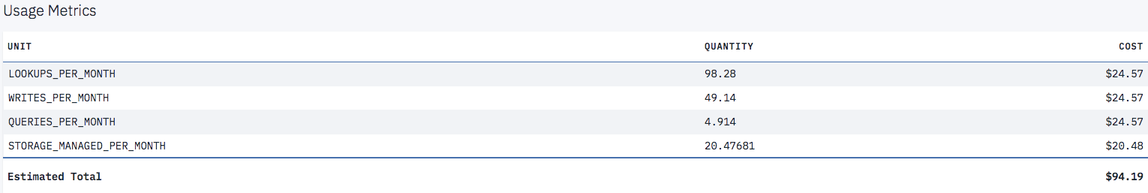
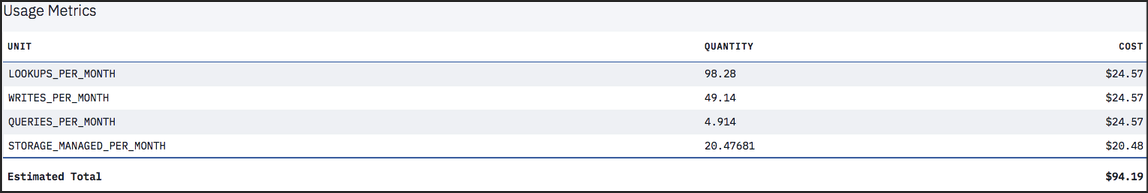
Updates from review, tweaked images, and acrolinx for fb104720.

Changed region(s): [[0.0, 0.9637, 1.0, 1.0], [0.0, 0.0, 1.0, 0.0311]]

diff --git a/offerings/bluemix.md b/offerings/bluemix.md
@@ -2,7 +2,7 @@
 
 copyright:
   years: 2015, 2018
-lastupdated: "2018-04-18"
+lastupdated: "2018-06-05"
 
 ---
 
@@ -22,16 +22,15 @@ feature-rich offering, receiving updates and new features first. Pricing is base
 your throughput and storage requirements, making it suitable for any 
 required load. 
 
-There is a free [Lite plan](#lite-plan) with a fixed amount of 
-throughput capacity and data for development and evaluation purposes. There 
-is also a paid [Standard plan](#standard-plan) which offers configurable provisioned throughput 
+The free [Lite plan](#lite-plan) includes a fixed amount of 
+throughput capacity and data for development and evaluation purposes. The paid [Standard plan](#standard-plan) offers configurable provisioned throughput 
 capacity and data storage pricing that scales as your application requirements 
 change.  An optional [Dedicated Hardware plan](#dedicated-hardware-plan) is also available for an 
 additional monthly fee to run one or more of your Standard plan instances 
 on a dedicated hardware environment. The dedicated hardware environment 
 is for your sole use, and if a Dedicated Hardware plan instance is provisioned 
 within a US location, you can optionally select a [HIPAA ![External link icon](../images/launch-glyph.svg "External link icon")](https://en.wikipedia.org/wiki/Health_Insurance_Portability_and_Accountability_Act){:new_window} 
-compliant configuration.
+-compliant configuration.
 
 The following table summarizes the provisioned throughput capacity and 
 disk space configuration for the Lite plan and a few examples for the 
@@ -124,17 +123,18 @@ and queries.
 
 ### Dedicated hardware plan
 
-You can optionally run your Standard plan instances on a dedicated hardware environment in 
+As an alternative, you can run your Standard plan instances on a dedicated hardware environment in 
 any [{{site.data.keyword.IBM}} data center ![External link icon](../images/launch-glyph.svg "External link icon")](https://www.ibm.com/cloud-computing/bluemix/data-centers) 
-for a monthly fee. You purchase a single dedicated hardware plan for a given location 
+for a monthly fee. You purchase a single dedicated hardware plan for a specific location 
 and can provision one or more Standard plan instances on it. This plan is necessary for 
-HIPAA compliance and must be selected at provisioning time. Note that the Dedicated 
-Hardware plan is not available to {{site.data.keyword.Bluemix_notm}} Dedicated customers and is only available for {{site.data.keyword.Bluemix_notm}} 
-Public customers.
+HIPAA compliance and must be selected at provisioning time. 
+
+The Dedicated Hardware plan is not available to {{site.data.keyword.Bluemix_notm}} Dedicated customers and is only available for {{site.data.keyword.Bluemix_notm}} Public customers.
+{: tip}
 
 ## Provisioned throughput capacity
 {: #provisioned-throughput-capacity}
-Throughput provision is identified and measured as one of three kinds of events:
+Throughput provision is identified and measured as one of the following types of events:
 
 1.	A lookup,
     which is a read of a specific document,
@@ -145,7 +145,7 @@ Throughput provision is identified and measured as one of three kinds of events:
     or deletion of an individual document,
     or any update due to an index build.
 3.	A query,
-    which is a request made to one of the {{site.data.keyword.cloudant_short_notm}} query endpoints,
+    which is a request that is made to one of the {{site.data.keyword.cloudant_short_notm}} query endpoints,
     including the following types:
 	-	Primary Index ([`_all_docs`](../api/database.html#get-documents))
 	-	MapReduce View ([`_view`](../api/creating_views.html#using-views))
@@ -161,9 +161,7 @@ requests are rejected until the number of events within the sliding window
 no longer exceeds the number that is provisioned.
 It might help to think of the sliding 1-second window as being any consecutive period of 1,000 milliseconds.
 
-For example, if you are on the Standard plan with provisioned for 200 lookups per second,
-your account might make a maximum of 200 lookup requests during a consecutive period of 1,000 milliseconds (1 second).
-Subsequent lookup requests made during the sliding 1,000-millisecond period
+For example, the Standard plan is provisioned for 200 lookups per second. Your account might make a maximum of 200 lookup requests during a consecutive period of 1,000 milliseconds (1 second). Subsequent lookup requests made during the sliding 1,000-millisecond period
 are rejected until the number of lookup requests in that period drops to less than 200 again.
 
 When a request is rejected because the number of events is exceeded,
@@ -174,8 +172,8 @@ Recent versions of the supported client libraries (for [Java](../libraries/suppo
 [Node.js](../libraries/supported.html#node-js),
 and [Python](../libraries/supported.html#python) languages) help you handle a `429` response.
 For example,
-the Java library throws a
-[`TooManyRequestsException` ![External link icon](../images/launch-glyph.svg "External link icon")](http://static.javadoc.io/com.cloudant/cloudant-client/2.5.1/com/cloudant/client/org/lightcouch/TooManyRequestsException.html){:new_window}.
+the Java library generates a
+[`TooManyRequestsException` ![External link icon](../images/launch-glyph.svg "External link icon")](http://static.javadoc.io/com.cloudant/cloudant-client/2.5.1/com/cloudant/client/org/lightcouch/TooManyRequestsException.html){:new_window} response.
 
 By default,
 the supported client libraries do not automatically attempt to retry
@@ -205,7 +203,7 @@ through the Account tab of your {{site.data.keyword.cloudant_short_notm}} accoun
 ![Account Dashboard](../images/cloudant_capacity.png)
 
 To move to a different throughput capacity, select the provisioning you 
-want, then click the `Update` button. You are asked to confirm the change, 
+want, then click `Update`. You are asked to confirm the change, 
 and reminded that the provisioning change can take up to 24 hours to 
 complete.
 
@@ -232,7 +230,7 @@ then you can modify the provisioning through the [Service pane](#servicetier) on
 
 ### Disk space included
 
-This value is the storage capacity included in the plan.
+This value is the storage capacity that is included in the plan.
 It is used for both data and index storage.
 
 ### Disk overage
@@ -272,15 +270,15 @@ your instance was 8 GB more than the plan allocation.
 
 Therefore,
 for hour 02:00 of day 3,
-you will be billed an overage based on 88 GB x 1 hour = 88 GB hours.
+your bill includes an overage based on 88 GB x 1 hour = 88 GB hours.
 
 For hour 03:00 of day 3 to the end of day 3,
-you will be billed an overage based on 8 GB x 21 hours = 168 GB hours.
+your bill includes an overage based on 8 GB x 21 hours = 168 GB hours.
 
 For hour 00:00 of day 4 to the end of the month (of 30 days),
-you will be billed an overage based on 8 GB x 24 hours x 27 days = 5184 GB hours.
+your bill includes an overage based on 8 GB x 24 hours x 27 days = 5184 GB hours.
 
-The total overage bill for the month would be based on a total of 88 + 168 + 5184 = 5440 GB hours.
+The total overage bill for the month is based on a total of 88 + 168 + 5184 = 5440 GB hours.
 
 ## Request and document size limits
 
@@ -299,8 +297,8 @@ It is recommended that you store binary attachments, or large JSON blobs,
 in object storage and save a link to the location in a 
 {{site.data.keyword.cloudant_short_notm}} JSON document.   
 
-When replicating, documents or attachments larger than these limits will not be 
-replicated to the target database. More information about how to detect replication
+When you replicate, documents or attachments larger than these limits do not 
+replicate to the target database. More information about how to detect replication
 errors is available [here](../api/replication.html#replication-errors).
 
 ## Locations and tenancy
@@ -319,10 +317,10 @@ Dedicated Hardware plan instances can be deployed in most
 [{{site.data.keyword.IBM_notm}} data center locations ![External link icon](../images/launch-glyph.svg "External link icon")](https://www.ibm.com/cloud-computing/bluemix/data-centers). 
 See the drop-down menu in the {{site.data.keyword.Bluemix_notm}} catalog for an up-to-date list of available locations.
 
-&Dagger;All {{site.data.keyword.cloudant_short_notm}} instances deployed from the 
-{{site.data.keyword.Bluemix_notm}} Public Germany region will be 
-deployed in EU-managed environments. Any {{site.data.keyword.cloudant_short_notm}} 
-account or API key generated 
+&Dagger;All {{site.data.keyword.cloudant_short_notm}} instances that are deployed from the 
+{{site.data.keyword.Bluemix_notm}} Public Germany region 
+deploy in EU-managed environments. Any {{site.data.keyword.cloudant_short_notm}} 
+account or API key that is generated 
 outside of an EU-managed environment cannot be granted access to an EU-managed 
 {{site.data.keyword.cloudant_short_notm}} instance.
 
@@ -342,20 +340,20 @@ so request this environment as part of the [provisioning process](#provisioning-
 
 <div id="byok"></div>
 
-If you require bring-your-own-key (BYOK) for encryption-at-rest, this is enabled via {{site.data.keyword.cloud}} Key 
+If you require bring-your-own-key (BYOK) for encryption-at-rest, this encryption is enabled by using {{site.data.keyword.cloud}} Key 
 Protect. {{site.data.keyword.cloudant_short_notm}} supports this feature for new {{site.data.keyword.cloudant_short_notm}} 
 [Dedicated Hardware plan](https://console.bluemix.net/docs/services/Cloudant/offerings/bluemix.html#ibm-cloud-public) 
-instances deployed in all regions. First, create an instance of the Dedicated 
-Hardware plan via the [{{site.data.keyword.cloud_notm}} Catalog](https://console.bluemix.net/catalog/). Then submit a 
-support ticket and our support team will coordinate getting your new Dedicated Hardware instance's 
-encryption-at-rest encryption keys managed via your Key Protect instance.
+instances that are deployed in all regions. First, create an instance of the Dedicated 
+Hardware plan by using the [{{site.data.keyword.cloud_notm}} catalog](https://console.bluemix.net/catalog/). Then, submit a 
+support ticket, and our support team coordinates getting your new Dedicated Hardware instance's 
+encryption-at-rest encryption keys that are managed by your Key Protect instance.
 
 ## High availability, disaster recovery, and backup
 
 To provide high availability (HA) and disaster recovery (DR) within a data center, all data is 
 stored in triplicate across three separate physical servers in a cluster. You can provision 
 accounts in multiple data centers, then use continuous data replication to provide HA/DR across 
-data centers. {{site.data.keyword.cloudant_short_notm}} data is not automatically backed up, but supported tooling is 
+data centers. {{site.data.keyword.cloudant_short_notm}} data is not automatically backed up, but supported tools are  
 provided to handle backups. Review the 
 [Disaster Recovery and Backup guide ![External link icon](../images/launch-glyph.svg "External link icon")](https://console.bluemix.net/docs/services/Cloudant/guides/disaster-recovery-and-backup.html#disaster-recovery-and-backup) 
 to explore all HA, DR, and backup considerations to meet your application requirements. 
@@ -375,10 +373,10 @@ Information about the details of the Support Service Level Agreement (SLA) is av
 
 You can provision a {{site.data.keyword.cloudant_short_notm}} Lite or Standard plan instance on {{site.data.keyword.Bluemix}} in two ways:
 
-- Using the Dashboard. A tutorial describing the process is available [here ![External link icon](../images/launch-glyph.svg "External link icon")](https://console.bluemix.net/docs/services/Cloudant/tutorials/create_service.html#creating-a-cloudant-instance-on-bluemix){:new_window}.
-- Using the Cloud Foundry command tool. A tutorial describing the process is available [here ![External link icon](../images/launch-glyph.svg "External link icon")](https://console.bluemix.net/docs/services/Cloudant/tutorials/create_service_cli.html#creating-a-cloudant-instance-on-bluemix-using-the-cloud-foundry-tools){:new_window}.
+- Using the Dashboard. A tutorial that describes the process is available [here ![External link icon](../images/launch-glyph.svg "External link icon")](https://console.bluemix.net/docs/services/Cloudant/tutorials/create_service.html#creating-a-cloudant-instance-on-bluemix){:new_window}.
+- Using the Cloud Foundry command tool. A tutorial that describes the process is available [here ![External link icon](../images/launch-glyph.svg "External link icon")](https://console.bluemix.net/docs/services/Cloudant/tutorials/create_service_cli.html#creating-a-cloudant-instance-on-bluemix-using-the-cloud-foundry-tools){:new_window}.
  
-To create and leverage a {{site.data.keyword.cloudant_short_notm}} Dedicated Hardware plan instance, follow the tutorial describing the process [here ![External link icon](../images/launch-glyph.svg "External link icon")](https://console.bluemix.net/docs/services/Cloudant/tutorials/create_dedicated_hardware_plan.html#creating-and-leveraging-a-cloudant-dedicated-hardware-plan-instance-on-bluemix){:new_window}.
+To create and use a {{site.data.keyword.cloudant_short_notm}} Dedicated Hardware plan instance, follow the tutorial that describes the process [here ![External link icon](../images/launch-glyph.svg "External link icon")](https://console.bluemix.net/docs/services/Cloudant/tutorials/create_dedicated_hardware_plan.html#creating-and-leveraging-a-cloudant-dedicated-hardware-plan-instance-on-bluemix){:new_window}.
 
 
 

diff --git a/offerings/pricing.md b/offerings/pricing.md
@@ -2,7 +2,7 @@
 
 copyright:
   years: 2015, 2018
-lastupdated: "2018-04-27"
+lastupdated: "2018-06-05"
 
 ---
 
@@ -12,9 +12,10 @@ lastupdated: "2018-04-27"
 {:codeblock: .codeblock}
 {:pre: .pre}
 
-<!-- Acrolinx: 2017-04-27 -->
+<!-- Acrolinx: 2018-06-057 -->
 
 # Pricing
+{: #pricing}
 
 {{site.data.keyword.cloudantfull}} provides tuning to scale up and down your provisioned throughput 
 capacity, which is a reserved number of lookups, writes, and queries each second allocated to 
@@ -24,6 +25,7 @@ application is trying to exceed its provisioned throughput capacity allowance.
 
 
 ## Pricing Examples 
+{: #pricing-examples}
 
 Let's assume you are building a mobile app with {{site.data.keyword.cloudant_short_notm}} and do not yet know the capacity 
 that you might need. In this case, we recommend that you start with the lowest provisioned throughput 
@@ -35,9 +37,9 @@ the Standard plan that is 100 lookups/sec, 50 writes/sec, and 5 queries/sec. The
 this capacity is $0.105 per hour. The 100 lookups/sec, 50 writes/sec, and 5 queries/sec are 
 a block of provisioned throughput capacity. When you need to scale up (or down), you 
 can scale in increments of these blocks of capacity. Assuming the instance has less than 
-the 20 GB of storage that is included in the Standard plan, there are no storage costs. On the 
+the 20 GB of storage that is included in the Standard plan, no storage costs are incurred. On the 
 {{site.data.keyword.cloudant_short_notm}} Dashboard's > Account > Capacity tab, the 
-provisioned throughput capacity setting looks like this:
+provisioned throughput capacity setting looks like this screen capture:
 
 ![{{site.data.keyword.cloudant_short_notm}} Dashboard Capacity tab](../images/cloudant-dashboard.png)
 
@@ -69,6 +71,7 @@ What about 1,000 lookups, 500 writes, and 50 queries? See the following details:
 - Total = $766.50
 
 ## Data Usage 
+{: #data-usage}
 
 What about pricing for data overage, how does that work?
 
@@ -79,11 +82,7 @@ Standard | 20 GB | Additional storage costs $0.0014 per GB per hour, which is ap
 
 How does data display in the {{site.data.keyword.cloud_notm}} Usage Dashboard?
 
-This view shows the totals for usage that is accrued during this month, and so, only shows costs 
-for the month so far. The Estimated Total reflects the bill so far for the month. By the end 
-of the month, you'll see your average capacity for the month, which is your total monthly 
-bill. The `STORAGE_MANAGED_PER_MONTH` field only shows the amount above the 20 GB included, 
-so in the following example, there are approximately 40 GB of data total in the account.  
+This view shows the totals for usage that are accrued during this month, and so, shows only costs for the month so far. The Estimated Total reflects the bill so far for the month. By the end of the month, you see your average capacity for the month, which is your total monthly bill. The `STORAGE_MANAGED_PER_MONTH` field shows only the amount higher than the 20 GB included, so in the following example, you see approximately 40 GB of data total in the account.  
 
 ![{{site.data.keyword.cloudant_short_notm}} Dashboard usage metrics view with higher STORAGE MANAGED PER MONTH](../images/usage-dashboard1.png)
 
